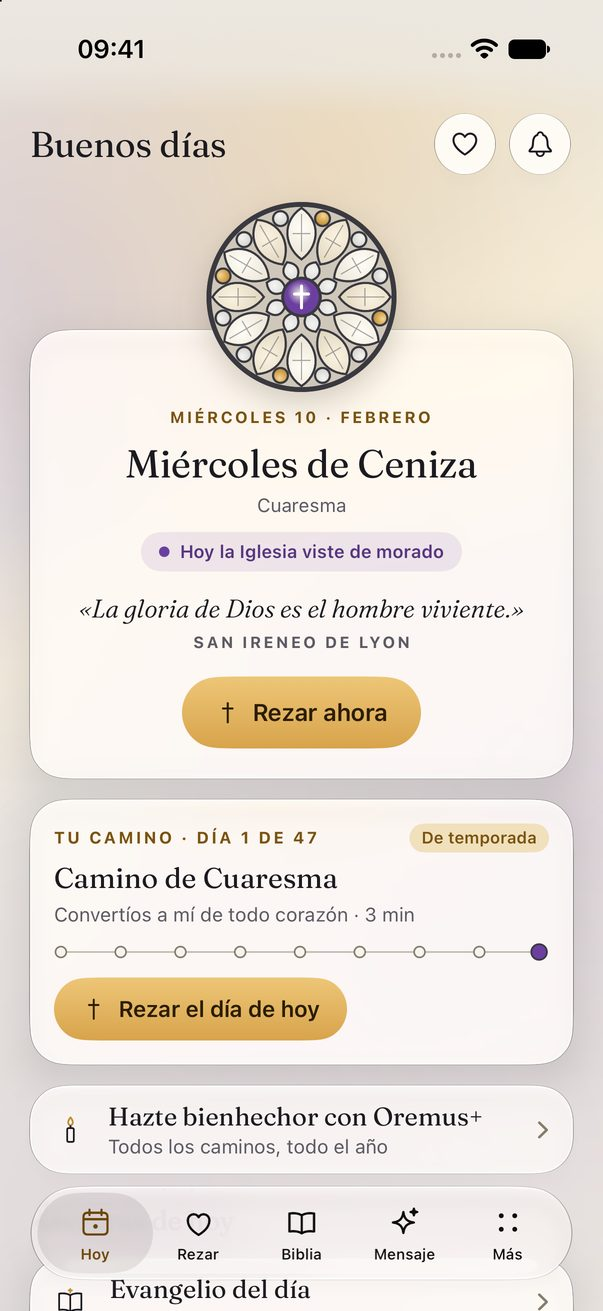
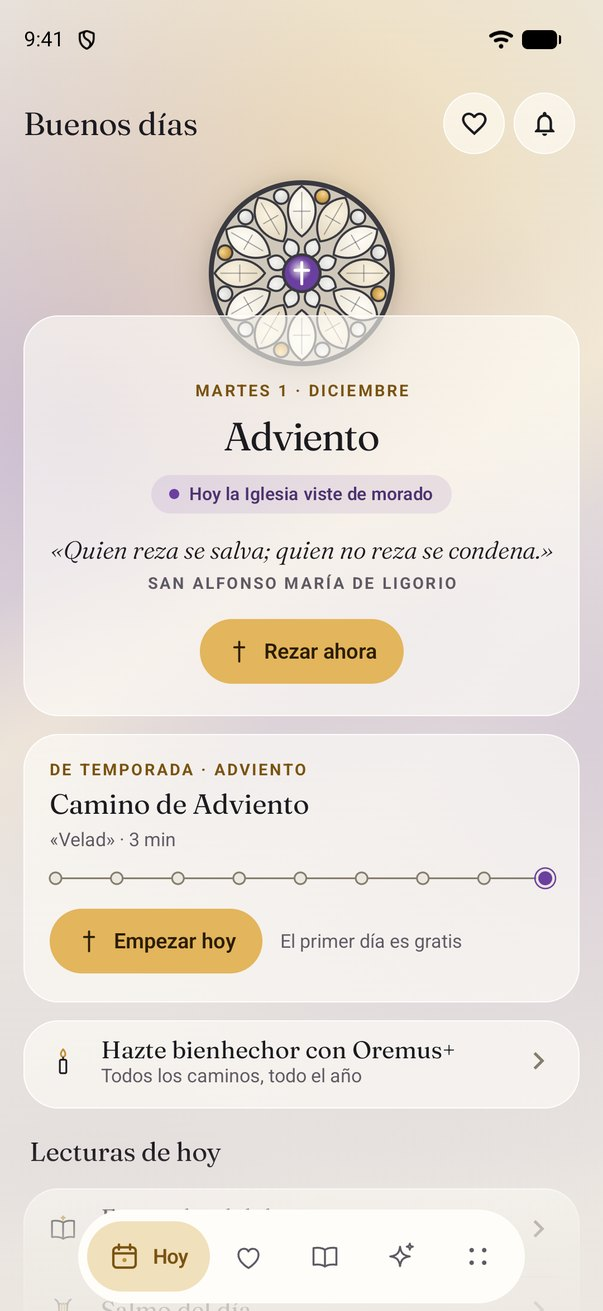
Oremus: capturas finales de Android de la 2.2.0 en Adviento (móvil y tableta) en lugar de las provisionales, con la tableta a 16:10

diff --git a/apps/oremus/index.html b/apps/oremus/index.html
@@ -140,7 +140,7 @@
     border-radius: 24px; padding: 9px; background: #0d0a12;
     box-shadow: 0 0 0 1px rgba(217,169,63,.3), 0 22px 54px rgba(0,0,0,.3);
   }
-  .tableta img { border-radius: 15px; width: 100%; aspect-ratio: 1600 / 1112; object-fit: cover; }
+  .tableta img { border-radius: 15px; width: 100%; aspect-ratio: 1600 / 1000; object-fit: cover; }
   .trio { display: grid; grid-template-columns: repeat(3, minmax(0, 1fr)); gap: 16px; align-items: start; }
   .trio .movil:nth-child(2) { transform: translateY(-20px); }
 
@@ -282,8 +282,8 @@
       <p class="nota">Gratis y sin anuncios. Para móvil, tableta y plegable, en Android, iPhone y iPad. En español, inglés e italiano.</p>
     </div>
     <div class="trio">
-      <div class="movil"><img src="img/movil-01-hoy.jpg" alt="Hoy: el Miércoles de Ceniza con su rosetón, la frase del día y el Camino de Cuaresma" width="603" height="1311" /></div>
-      <div class="movil"><img src="img/movil-02-caminos.jpg" alt="Caminos: el de Cuaresma destacado de temporada y la lista por tiempos litúrgicos" width="603" height="1311" /></div>
+      <div class="movil"><img src="img/movil-01-hoy.jpg" alt="Hoy: el 1 de diciembre, en Adviento, con su rosetón, la frase del día y el Camino de Adviento" width="603" height="1311" /></div>
+      <div class="movil"><img src="img/movil-02-caminos.jpg" alt="Caminos: el de Adviento destacado de temporada y la lista por tiempos litúrgicos" width="603" height="1311" /></div>
       <div class="movil"><img src="img/movil-03-oremus-plus.jpg" alt="Oremus+: te acompaña todo el año, con el plan anual y el mensual" width="603" height="1311" /></div>
     </div>
   </div>
@@ -301,7 +301,7 @@
         </ul>
       </div>
       <a class="video" id="video" href="https://youtu.be/5_OkgZfwjgU" aria-label="Ver el vídeo de Oremus">
-        <img src="img/tableta-01-hoy.jpg" alt="" width="1600" height="1112" loading="lazy" />
+        <img src="img/tableta-01-hoy.jpg" alt="" width="1600" height="1000" loading="lazy" />
         <span class="play" aria-hidden="true"></span>
         <span class="pie">Vídeo: Oremus en 30 segundos</span>
       </a>
@@ -385,7 +385,7 @@
     <h2>Vidriera y vela, en cada pantalla</h2>
     <h3 class="sub" style="margin-top:28px">En el móvil</h3>
     <div class="galeria">
-      <figure><div class="movil"><img src="img/movil-05-bienvenida.jpg" alt="Bienvenida: Oremus+ con el Camino de Cuaresma y la opción de seguir gratis" width="603" height="1311" loading="lazy" /></div><figcaption>Bienvenida</figcaption></figure>
+      <figure><div class="movil"><img src="img/movil-05-bienvenida.jpg" alt="Bienvenida: Oremus+ con el Camino de Adviento y la opción de seguir gratis" width="603" height="1311" loading="lazy" /></div><figcaption>Bienvenida</figcaption></figure>
       <figure><div class="movil"><img src="img/movil-01-hoy.jpg" alt="Hoy, con el día litúrgico y tu camino" width="603" height="1311" loading="lazy" /></div><figcaption>Hoy</figcaption></figure>
       <figure><div class="movil"><img src="img/movil-02-caminos.jpg" alt="Catálogo de caminos" width="603" height="1311" loading="lazy" /></div><figcaption>Caminos</figcaption></figure>
       <figure><div class="movil"><img src="img/movil-04-rosario-meditado.jpg" alt="Al terminar el Rosario, la invitación al Rosario meditado" width="603" height="1311" loading="lazy" /></div><figcaption>Al terminar el Rosario</figcaption></figure>
@@ -393,8 +393,8 @@
     </div>
     <h3 class="sub">En la tableta y el iPad</h3>
     <div class="galeria tabletas">
-      <figure><div class="tableta"><img src="img/tableta-01-hoy.jpg" alt="Hoy en dos columnas en un iPad en horizontal" width="1600" height="1112" loading="lazy" /></div><figcaption>Hoy en dos columnas</figcaption></figure>
-      <figure><div class="tableta"><img src="img/tableta-02-oremus-plus.jpg" alt="Oremus+ en dos paneles en un iPad en horizontal" width="1600" height="1112" loading="lazy" /></div><figcaption>Oremus+ en dos paneles</figcaption></figure>
+      <figure><div class="tableta"><img src="img/tableta-01-hoy.jpg" alt="Hoy en dos columnas en una tableta Android en horizontal" width="1600" height="1000" loading="lazy" /></div><figcaption>Hoy en dos columnas</figcaption></figure>
+      <figure><div class="tableta"><img src="img/tableta-02-oremus-plus.jpg" alt="Oremus+ en dos paneles en una tableta Android en horizontal" width="1600" height="1000" loading="lazy" /></div><figcaption>Oremus+ en dos paneles</figcaption></figure>
     </div>
   </section>
 
